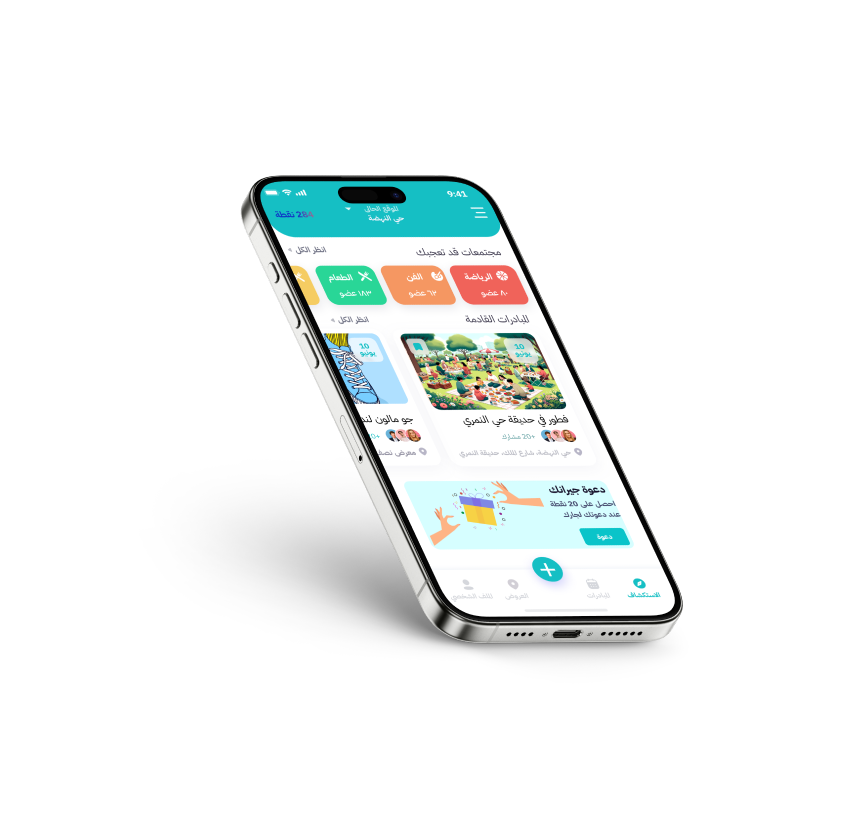
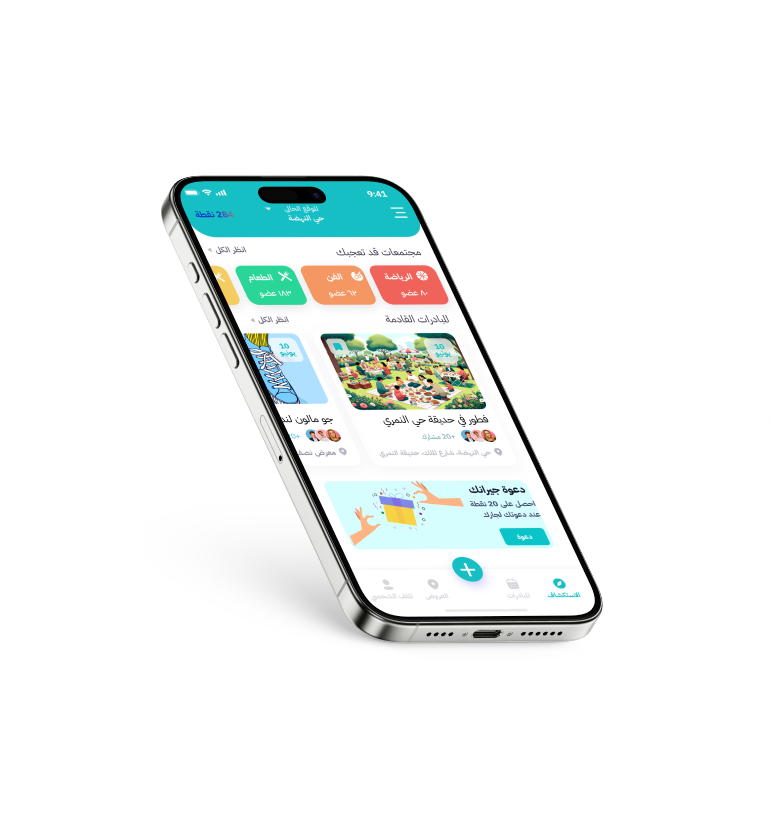
fix mockup images

Changed region(s): [[0.1865, 0.1873, 0.8083, 0.8115]]

diff --git a/index.html b/index.html
@@ -42,7 +42,7 @@
       <p class="hero-description">تواصل، شارك، وابدأ مبادراتك في مجتمعك المحلي مع جيرة.</p>
       <a href="#summary" class="btn">إنضم ألى مجتمع جيرة!</a>
     </div>
-<img src="HomeLP.png" style="width: 100%;" alt="Home Landing Page" />
+<img src="HomeLP.png" class="mockup" alt="Home Landing Page" />
   </section>
 
 

diff --git a/GPcss.css b/GPcss.css
@@ -215,6 +215,10 @@ p {
     font-size: 16px;
     color: #555;
   }
+
+  .mockup{
+    width: 60%;
+  }
   
   /* Responsive Styles */
   @media (max-width: 768px) {
@@ -260,6 +264,9 @@ p {
     
     .testimonial {
       padding: 40px;
+    }
+    .mockup{
+      width: 80%;
     }
   }
 
